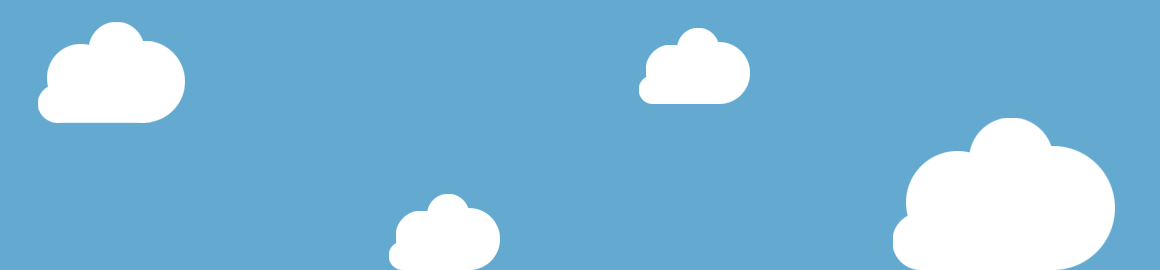
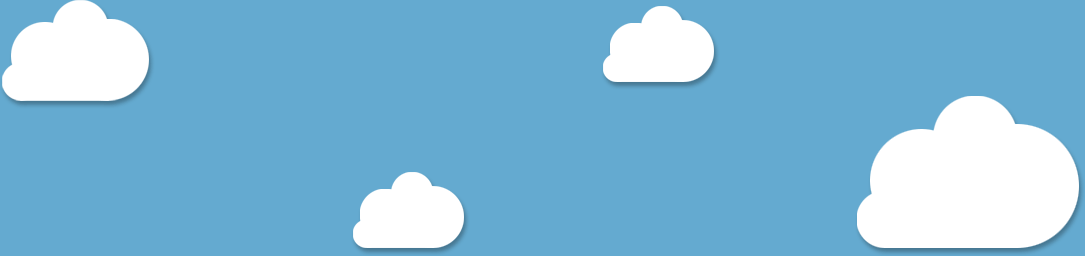
Seed model and form, js $

diff --git a/app/assets/stylesheets/welcome.css.scss b/app/assets/stylesheets/welcome.css.scss
@@ -9,3 +9,40 @@ div#header {
   text-indent: -424242px;
   background:url('header.png') no-repeat top left;
 }
+
+div#seed {
+  width: 700px;
+  height: 106px;
+  margin: 0 auto;
+  padding: 60px;
+  background: url('seed.png') no-repeat top center;
+}
+
+div#seed form {
+  display: block;
+  width: 584px;
+  margin: 0 auto;
+  font-weight: bold;
+  font-size: 36px;
+}
+
+div#seed form span,
+div#seed form input {
+  float: left;
+}
+
+div#seed span {
+  margin-top: 15px;
+}
+
+div#seed form input#seed_amount {
+  width: 80px;
+  height: 40px;
+  margin: 0 40px;
+  font-size: 36px;
+}
+
+div#seed form input#submit {
+  margin-top: 7px;
+  margin-left: 7px;
+}

diff --git a/app/assets/stylesheets/bootstrap_and_overrides.css.less b/app/assets/stylesheets/bootstrap_and_overrides.css.less
@@ -1,8 +1,4 @@
 @import "twitter/bootstrap/bootstrap";
-body {
-  padding-left: 20px;
-}
-
 @import "twitter/bootstrap/responsive";
 
 // Set the correct sprite paths
@@ -32,10 +28,23 @@ body {
 // @linkColor: #ff0000;
 
 body {
-  background:#64aad0;
+  background: #2a0d05;
+}
+
+div#sky {
+  background: #64aad0;
 }
 
 div#content {
   padding-top: 60px;
-  background:url('clouds.png') no-repeat 0 0;
+  background: url('clouds.png') no-repeat 0 0;
+}
+
+footer {
+  text-align: right;
+}
+
+div#grass {
+  height: 100px;
+  background: url('grass.png') repeat-x top left;
 }

diff --git a/db/schema.rb b/db/schema.rb
@@ -11,6 +11,12 @@
 #
 # It's strongly recommended to check this file into your version control system.
 
-ActiveRecord::Schema.define(:version => 0) do
+ActiveRecord::Schema.define(:version => 20120717022238) do
+
+  create_table "seeds", :force => true do |t|
+    t.integer  "amount_cents"
+    t.datetime "created_at",   :null => false
+    t.datetime "updated_at",   :null => false
+  end
 
 end

diff --git a/app/models/seed.rb b/app/models/seed.rb
@@ -1,0 +1,10 @@
+class Seed < ActiveRecord::Base
+  attr_accessible :amount_cents, :amount
+  attr_accessor :amount
+
+  before_save :amount_to_cents
+
+  def amount_to_cents
+    @amount_cents = @amount / 100
+  end
+end

diff --git a/db/migrate/20120717022238_create_seeds.rb b/db/migrate/20120717022238_create_seeds.rb
@@ -1,0 +1,9 @@
+class CreateSeeds < ActiveRecord::Migration
+  def change
+    create_table :seeds do |t|
+      t.integer :amount_cents
+
+      t.timestamps
+    end
+  end
+end

diff --git a/config/routes.rb b/config/routes.rb
@@ -1,6 +1,8 @@
 SeedTheLearning::Application.routes.draw do
   root :to => 'welcome#index'
 
+  resources :seeds
+
   namespace :api do
     resource :tree
   end

diff --git a/spec/models/seed_spec.rb b/spec/models/seed_spec.rb
@@ -1,0 +1,5 @@
+require 'spec_helper'
+
+describe Seed do
+  pending "add some examples to (or delete) #{__FILE__}"
+end

diff --git a/app/controllers/welcome_controller.rb b/app/controllers/welcome_controller.rb
@@ -1,4 +1,5 @@
 class WelcomeController < ApplicationController
   def index
+    @seed = Seed.new
   end
 end
